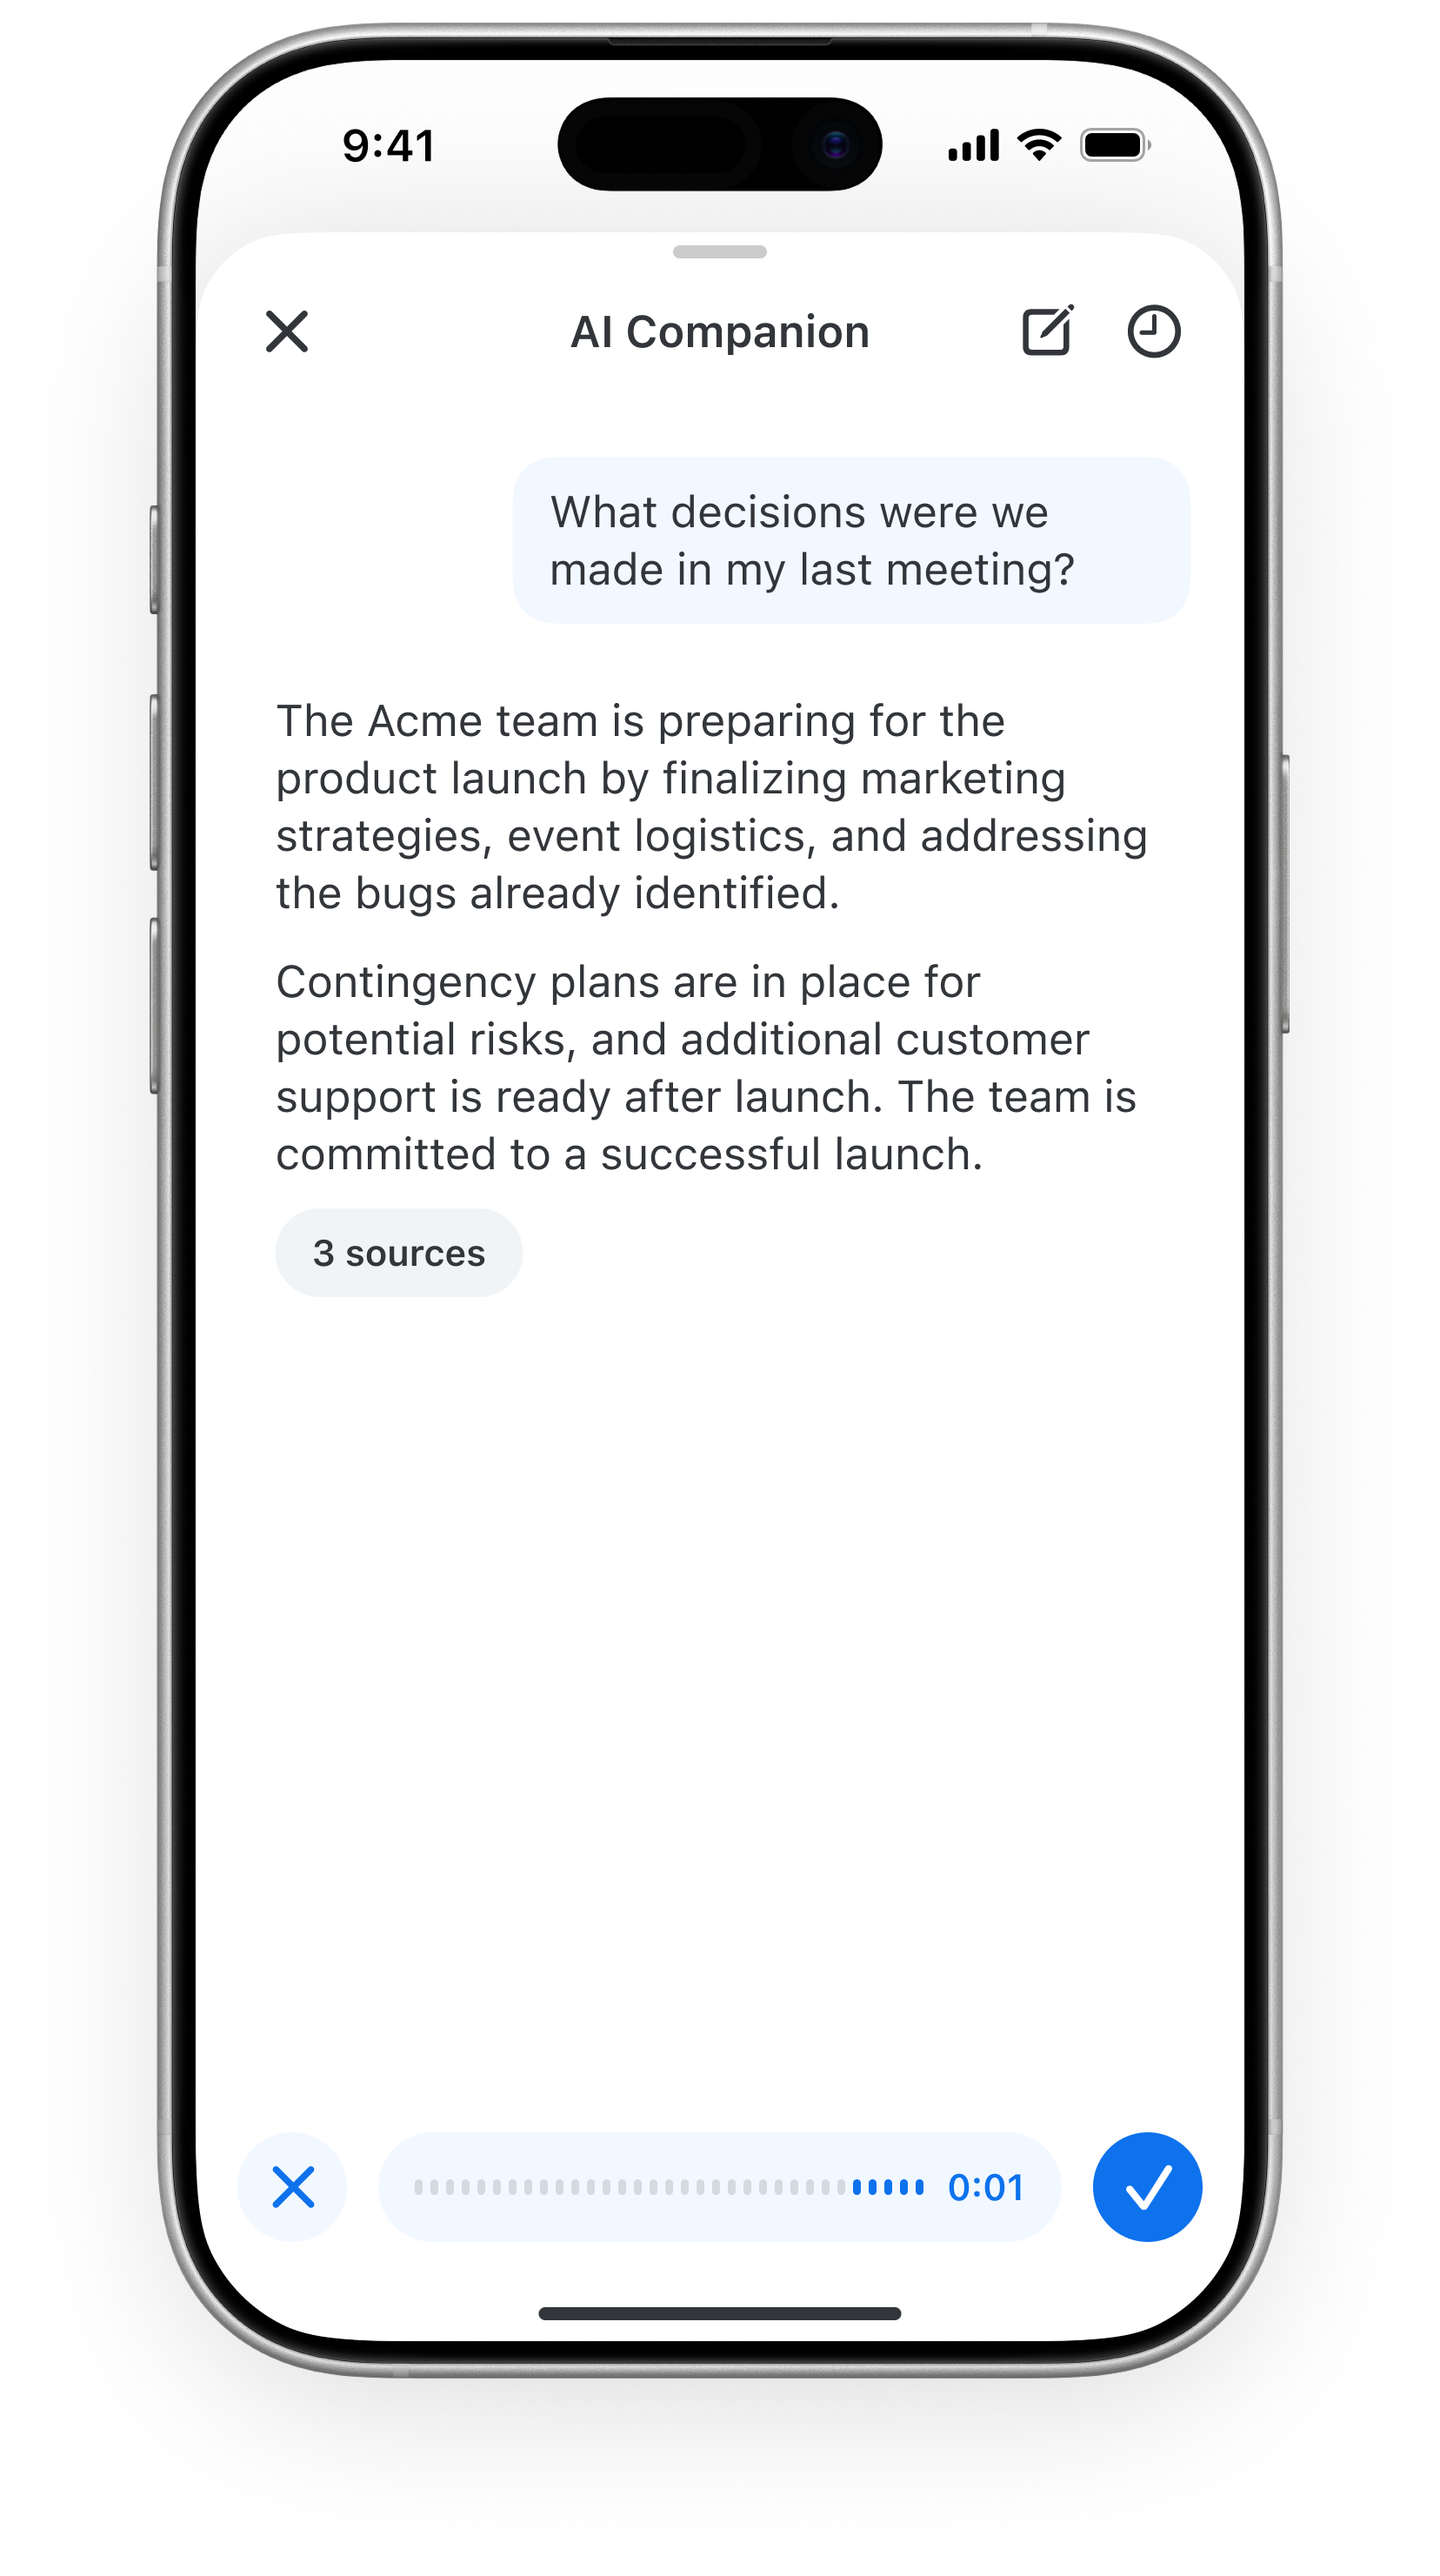
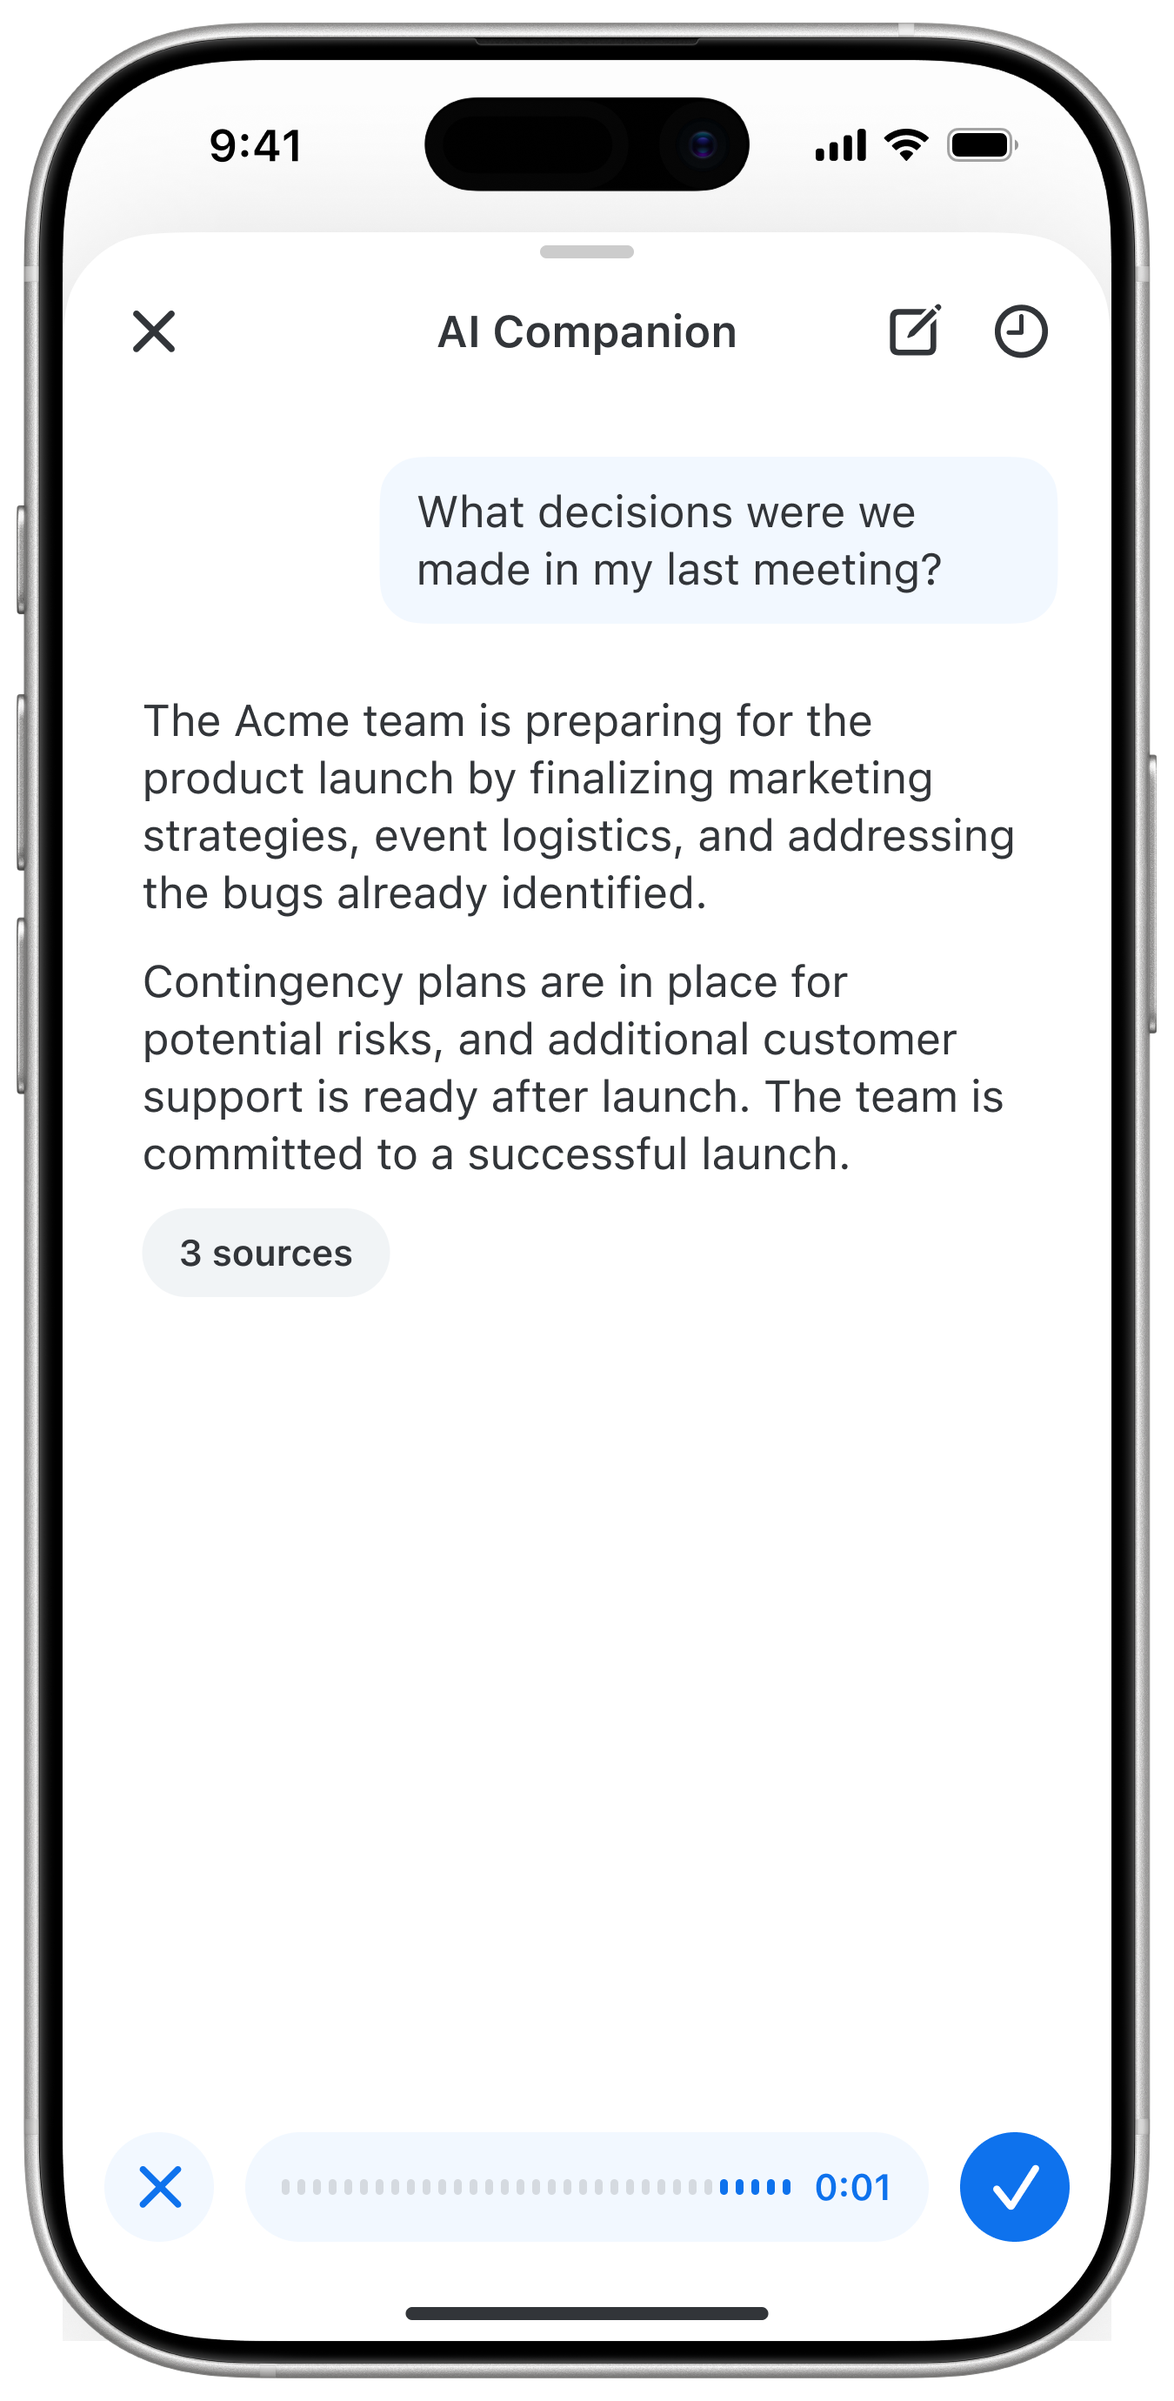
Add 40px left and right margin for mobile images

diff --git a/styles.css b/styles.css
@@ -514,6 +514,9 @@ html[data-theme-transitioning] .footer::after {
   gap: 40px;
   align-items: center;
   justify-content: center;
+  margin-left: 40px;
+  margin-right: 40px;
+  box-sizing: border-box;
 }
 
 .showcase-image-group-horizontal .showcase-image {
